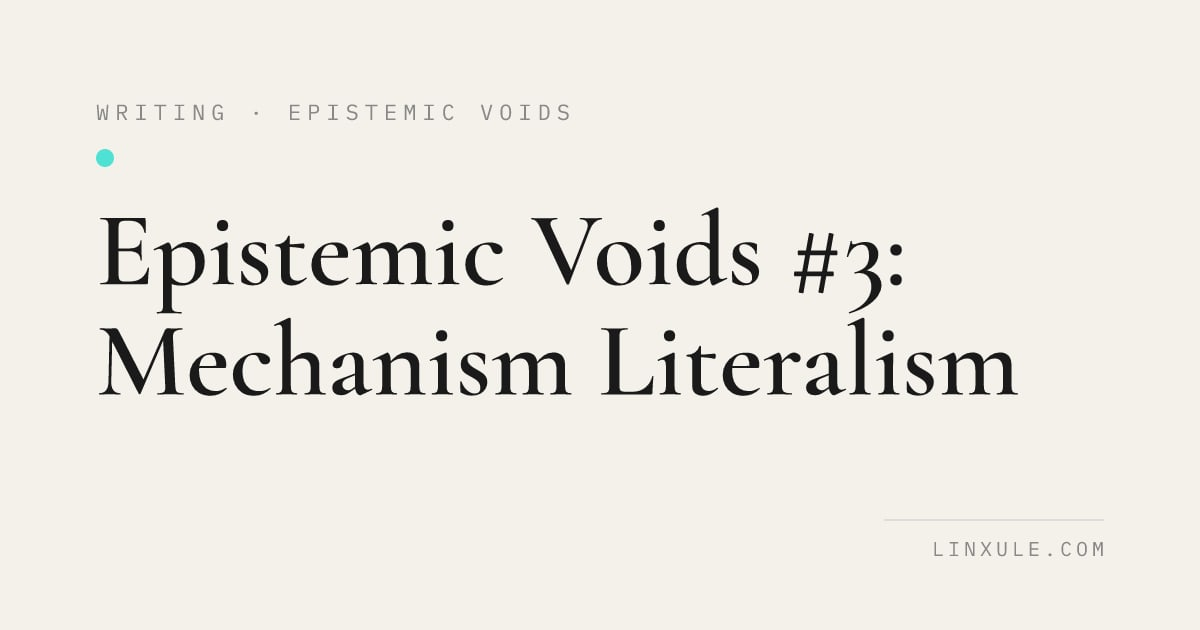
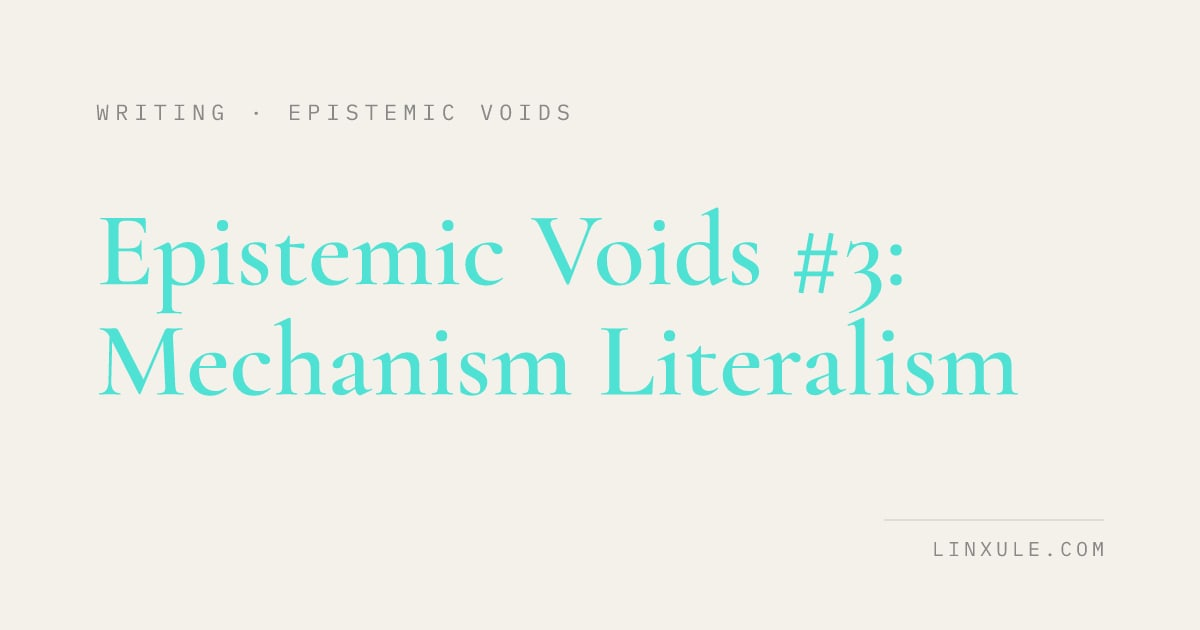
Social cards mirror the page's accident; fullscreen hint is keyboard-revealed
The 2026-09-06 review rightly caught the mechanical last-word cyan on
auto-title cards, but the fix removed every authored accident too — the
brand card's "not as tools." (a recorded brand decision) and accident: true
titles. Cyan now mirrors the HTML surface: an accident title is cyan on its
card with no dot, the brand phrase stays cyan, every other card carries one
quiet dot. Faintness is the accident, not a defect.

The fullscreen keyboard hint is announced from the start but shown only once
a Tab or guard focus proves a keyboard is in play, so pointer readers see
only the work. Docs reconciled (CLAUDE.md, og-images rule, review report).

Claude-Session: https://claude.ai/code/session_01XxgzbA68zjWkYwEPdrHo3w

Changed region(s): [[0.0617, 0.3317, 0.8633, 0.6333], [0.0617, 0.2413, 0.0925, 0.2714]]

diff --git a/eleventy/og-card-paths.js b/eleventy/og-card-paths.js
@@ -8,8 +8,9 @@ export const DEFAULT_CARD = `${OG_CARDS_DIR}/default-r2.jpg`;
 export const RASTER_CARD_REV = "-r2";
 export const BRAND_CARD = {
   name: "Xule Lin", kicker: "LINXULE.COM",
-  taglineLines: ["What becomes impossible to see when", "algorithms enter organizational life —", "not as tools."],
+  taglineLines: ["What becomes impossible to see when", "algorithms enter organizational life —", { text: "not as tools.", accent: true }],
 };
+const brandTagline = () => BRAND_CARD.taglineLines.map((ln) => (typeof ln === "string" ? ln : ln.text)).join(" ");
 export const SECTION_CARDS = {
   making: ["Portraits as poems, artifacts made by AI,", "and research tools."],
   writing: ["Essays on human–AI collaboration", "in qualitative research."],
@@ -74,18 +75,21 @@ export function ogCard(src) {
   return src;
 }
 
+// `accident` mirrors the page: a title that is cyan on the HTML surface is cyan on its card.
 export function titleCardOptions(data) {
+  const accident = data.accident === true;
   if (data.layout === "layouts/paper.njk") return {
     title: data.paperTitle || data.title,
     kicker: ["PAPER", data.year].filter(Boolean).join(" · "),
     subtitle: data.venue,
+    accident,
   };
-  if (data.layout === "layouts/artifact.njk") return { title: data.title, kicker: "MAKING · ARTIFACT" };
+  if (data.layout === "layouts/artifact.njk") return { title: data.title, kicker: "MAKING · ARTIFACT", accident };
   if (data.layout === "layouts/talk.njk") {
     const year = data.date instanceof Date ? data.date.getUTCFullYear() : String(data.date || "").slice(0, 4);
-    return { title: data.title, kicker: ["TALKS", year].filter(Boolean).join(" · ") };
+    return { title: data.title, kicker: ["TALKS", year].filter(Boolean).join(" · "), accident };
   }
-  return { title: data.title, kicker: typeof data.series === "string" ? `WRITING · ${data.series.toUpperCase()}` : "WRITING" };
+  return { title: data.title, kicker: typeof data.series === "string" ? `WRITING · ${data.series.toUpperCase()}` : "WRITING", accident };
 }
 export function textCardAlt({ kicker, title, subtitle, brand = "LINXULE.COM" }) {
   return [kicker, title, subtitle, brand].filter(Boolean).join(". ");
@@ -103,7 +107,7 @@ export function resolveSocialCard(data, coverAlt = "") {
     alt: data.ogImageAlt || ["XULE LIN", section, SECTION_CARDS[section].join(" ")].join(". "),
   };
   if (hero === DEFAULT_CARD || hero === `${OG_CARDS_DIR}/default.jpg`) return {
-    src: DEFAULT_CARD, alt: data.ogImageAlt || [BRAND_CARD.name, BRAND_CARD.taglineLines.join(" "), BRAND_CARD.kicker].join(". "),
+    src: DEFAULT_CARD, alt: data.ogImageAlt || [BRAND_CARD.name, brandTagline(), BRAND_CARD.kicker].join(". "),
   };
   if (hero) {
     const galleryImage = data.images?.find((img) => img.src === hero);
@@ -118,5 +122,5 @@ export function resolveSocialCard(data, coverAlt = "") {
   }
   const auto = autoCardPath(data.page?.fileSlug, data.layout, url);
   if (auto) return { src: auto, alt: data.ogImageAlt || textCardAlt(titleCardOptions(data)) };
-  return { src: DEFAULT_CARD, alt: data.ogImageAlt || [BRAND_CARD.name, BRAND_CARD.taglineLines.join(" "), BRAND_CARD.kicker].join(". ") };
+  return { src: DEFAULT_CARD, alt: data.ogImageAlt || [BRAND_CARD.name, brandTagline(), BRAND_CARD.kicker].join(". ") };
 }

diff --git a/src/assets/js/host-modal.js b/src/assets/js/host-modal.js
@@ -14,6 +14,12 @@ export function createHostModal(root, { closeControl, requestClose, label }) {
     if (active) closeControl.focus({ preventScroll: true });
   }
 
+  // The visible exit hint is for the reader who is navigating by keyboard;
+  // everyone else sees only the work. (Assistive tech reads it regardless.)
+  function markKeyboard() {
+    if (active) root.setAttribute('data-keyboard', '');
+  }
+
   // The parent's keydown handler cannot see keys inside an opaque/cross-origin
   // iframe. Native Tab navigation *does* leave the frame: catch that next stop
   // on either side, before it can enter the background page or browser chrome.
@@ -23,12 +29,13 @@ export function createHostModal(root, { closeControl, requestClose, label }) {
     guard.hidden = true;
     guard.setAttribute('aria-label', 'Return to close');
     guard.style.cssText = 'position:absolute;width:1px;height:1px;padding:0;overflow:hidden;clip-path:inset(50%);white-space:nowrap;';
-    guard.addEventListener('focus', focusClose);
+    guard.addEventListener('focus', () => { markKeyboard(); focusClose(); });
   }
   root.prepend(guards[0]);
   root.append(guards[1]);
 
   function onKeydown(event) {
+    if (event.key === 'Tab') markKeyboard();
     if (active && event.key === 'Escape' && !event.defaultPrevented) {
       event.preventDefault();
       requestClose();
@@ -98,6 +105,7 @@ export function createHostModal(root, { closeControl, requestClose, label }) {
     close() {
       if (!active) return;
       active = false;
+      root.removeAttribute('data-keyboard');
       guards.forEach(guard => { guard.hidden = true; });
       document.removeEventListener('keydown', onKeydown);
       document.removeEventListener('focusin', onFocus);

diff --git a/tests/modals/modals.spec.js b/tests/modals/modals.spec.js
@@ -81,9 +81,13 @@ test('opaque script-free video keeps its sandbox and has a keyboard exit', async
   await expect(control).toBeFocused();
   await expect(artifact).toHaveAttribute('role', 'dialog');
   await expect(artifact).toHaveAttribute('aria-modal', 'true');
-  await expect(page.locator('#artifact-keyboard-hint')).toBeVisible();
+  // A mouse reader sees only the work; the exit hint appears once a keyboard is in play.
+  const hint = page.locator('#artifact-keyboard-hint');
+  expect(await hint.evaluate(el => el.getBoundingClientRect().width)).toBeLessThanOrEqual(1);
   await page.keyboard.press('Shift+Tab');
   await expect(control).toBeFocused();
+  await expect(artifact).toHaveAttribute('data-keyboard', '');
+  expect(await hint.evaluate(el => el.getBoundingClientRect().width)).toBeGreaterThan(1);
   // The script-free player is still a guest document when media is unavailable
   // and none of its native controls are focusable.
   await frame.focus();

diff --git a/CLAUDE.md b/CLAUDE.md
@@ -20,7 +20,7 @@ The website repo is `xule-site/`, not the parent `personal-website/` directory. 
 - Deploying Making **artifacts** (interactive HTML / video / image into the gallery) — wrappers, poster capture, R2, and why artifacts need *no* base-href (loaded by full file path, not directory URL) — in `.claude/rules/deploying-artifacts.md`.
 - Adding Making **portraits** (a prompt written by one AI, rendered by another generator like Midjourney) — file/dir layout, semantic image naming, the prompt-poem accident, prompter auto-pages, build/verify — in `.claude/rules/adding-portraits.md`.
 - Adding a **paper** landing page (`/papers/<slug>/` for Google Scholar — `citation_*` Highwire tags, a co-located full-text PDF gated on a `pdf:` field, ScholarlyArticle JSON-LD, BibTeX) — in `.claude/rules/papers.md`. The site's AI-discoverability + licensing surface (llms.txt, JSON-LD `license`/`usageInfo`, RSL `/license.xml`, REUSE/SPDX, security.txt, IndexNow) is documented in `.claude/docs/ai-discoverability.md`; the tracked Agent Skills / DNS-AID operations note is [`docs/agent-discovery.md`](./docs/agent-discovery.md).
-- **Social cards (og:image)** — every page gets a small 1200×630 card. Two families: **image cards** (cropped portraits/covers and contained SVG or raster artifacts) and **text cards** (brand, sections, writing without covers, HTML artifacts, talks, papers, and writing series), rendered with `@resvg/resvg-js` + vendored fonts in `scripts/og-fonts/`. Text stays ink; cyan marks a quiet dot. The shared `socialCard` resolver selects image and alternative together; use `ogImageAlt` when the selected artwork needs an authored description. `scripts/gen-og-cards.mjs` generates cards and `scripts/check-og-images.mjs` checks decoded dimensions against metadata. Revised designs use new URLs because cards are served immutable. Mechanism in `.claude/rules/og-images.md`; live preview checks in `.claude/rules/og-card-refresh.md`.
+- **Social cards (og:image)** — every page gets a small 1200×630 card. Two families: **image cards** (cropped portraits/covers and contained SVG or raster artifacts) and **text cards** (brand, sections, writing without covers, HTML artifacts, talks, papers, and writing series), rendered with `@resvg/resvg-js` + vendored fonts in `scripts/og-fonts/`. Cyan is the authored accident when the page has one (`accident: true` titles, the brand phrase "not as tools.") — otherwise a quiet dot; never a mechanically chosen word. The shared `socialCard` resolver selects image and alternative together; use `ogImageAlt` when the selected artwork needs an authored description. `scripts/gen-og-cards.mjs` generates cards and `scripts/check-og-images.mjs` checks decoded dimensions against metadata. Revised designs use new URLs because cards are served immutable. Mechanism in `.claude/rules/og-images.md`; live preview checks in `.claude/rules/og-card-refresh.md`.
 
 ### Key Files
 ```

diff --git a/docs/ui-review-2026-09-06.md b/docs/ui-review-2026-09-06.md
@@ -6,7 +6,7 @@ All twelve findings from the design and secondary-surface review are addressed i
 | --- | --- | --- |
 | Phone articles clip around wide tables | Article/grid can shrink; native tables have their own keyboard-scrollable region; long links wrap and code scrolls independently | Ghost at 320/390px, long code/link fixtures |
 | Papers and writing series share the generic card | Dedicated papers index, two paper cards, and nine series cards | Route/title/venue and generated-file checks |
-| Cyan title words are faint and mechanically selected | All essential text stays ink; one cyan dot remains | SVG fill checks and visual inspection of long titles |
+| Cyan title words are faint and mechanically selected | Mechanical last-word cyan removed; cards mirror the page — `accident: true` titles and the brand phrase stay cyan (authored), every other card carries one cyan dot | SVG fill checks for dot, accident-title, and brand cases |
 | Nyan Wave advertises false dimensions | Contained 1200×630 raster card preserves the entire composition | Decoded dimensions and mismatched-metadata fixture |
 | Social image alternatives describe the wrong surface | Shared resolver chooses image and alternative together; explicit overrides for three artworks | Text-card, cover, gallery, and override cases |
 | Fullscreen guests lose keyboard control | Shared host modal isolates background, focuses close, preserves reading/guest state, and provides Tab/Shift+Tab return guards | Real slide deck, opaque video guest, gallery, repeated opens at 320/390/1440px |
@@ -22,6 +22,8 @@ All twelve findings from the design and secondary-surface review are addressed i
 Ghost at 390px now has a 342px article from x=24 to x=366; its 495px table scrolls within that column. The social lint decodes all 130 referenced local cards and verifies their dimensions, formats, alternatives, and OG/Twitter agreement. Structured-output checks cover 116 JSON-LD blocks and 122 Markdown alternates.
 
 Browser coverage runs through `bun run test:making`, `bun run test:runtime`, and `bun run test:ui`. `bun run build` includes 73 unit/contract tests plus built-output lint. CI runs the new UI suite. Font tests use controlled local fixtures rather than third-party network timing.
+
+The fullscreen keyboard hint is announced to assistive technology from the start and becomes visible only once a Tab or guard focus shows a keyboard is in play, so a pointer reader sees only the work.
 
 Escape works inside eligible owned slide decks. Opaque or cross-origin iframe key events remain inside their guest; native dialog testing confirmed that boundary in Chromium too. The visible host hint and Tab/Shift+Tab guards provide a keyboard exit without widening sandbox permissions or restarting the embedded work.
 
